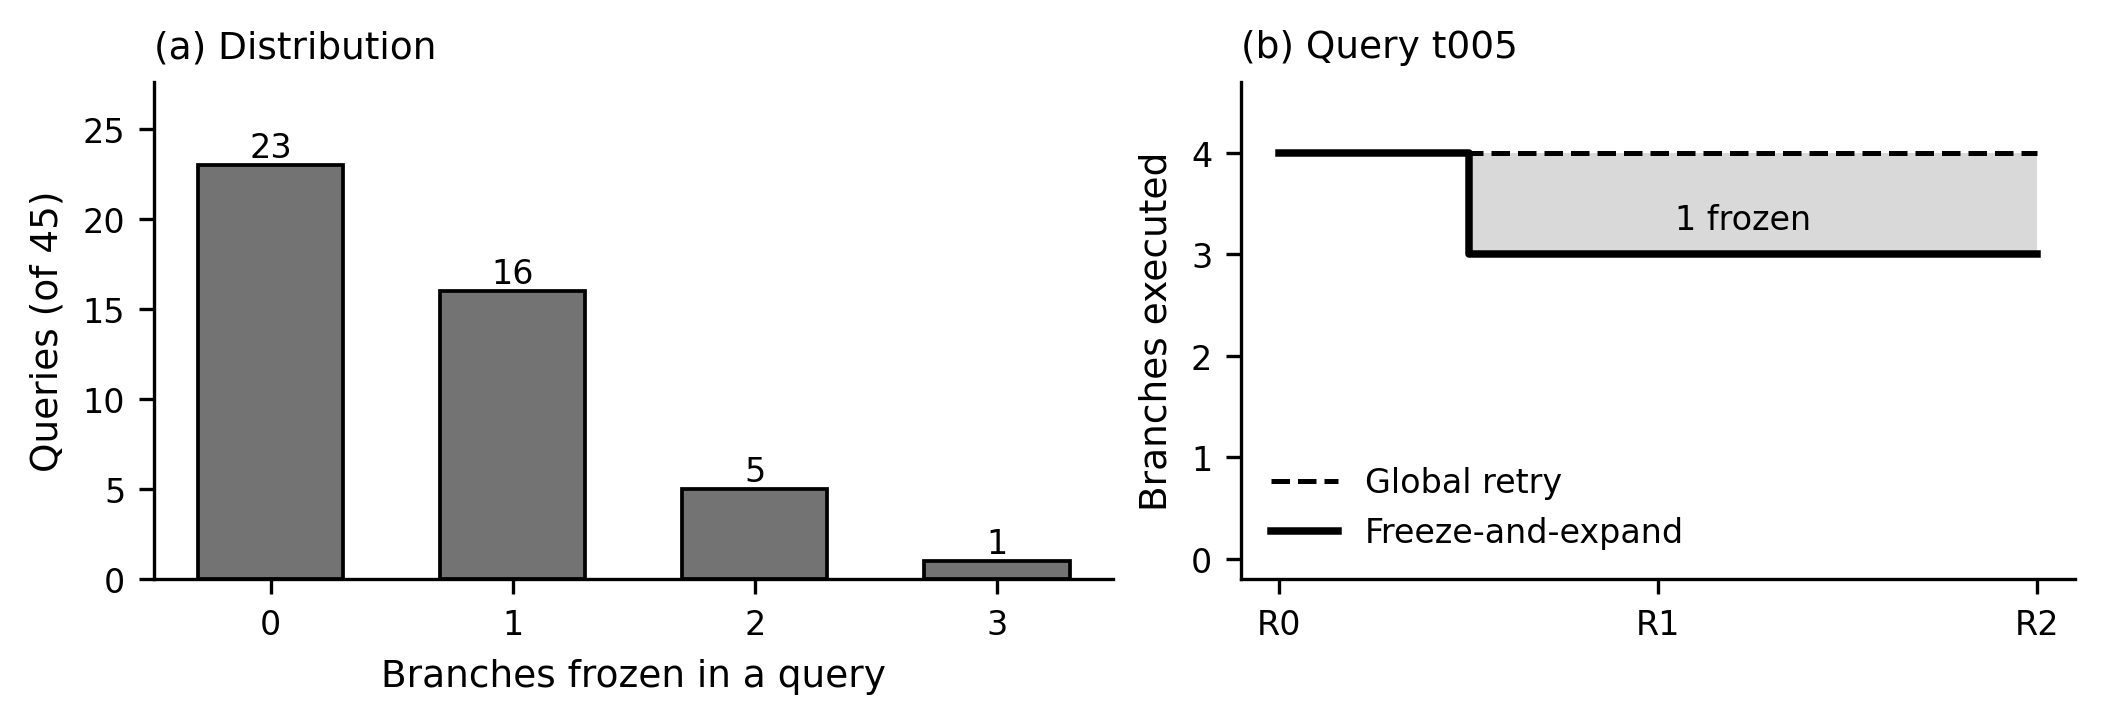
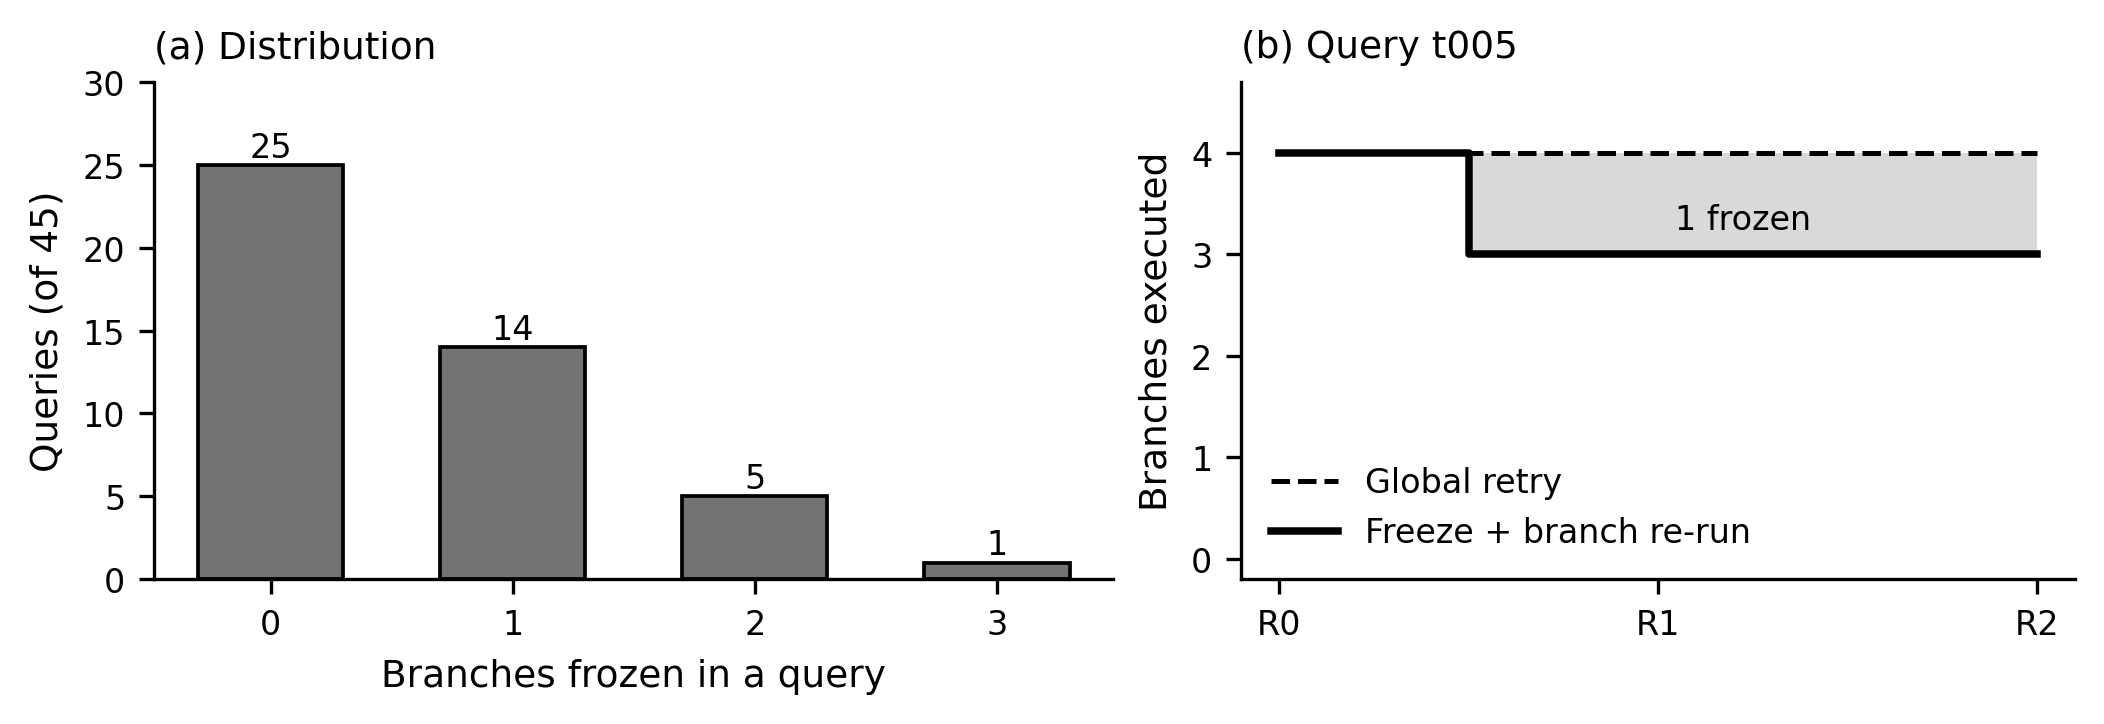
DEVIATIONS 37: pre-resubmission number trace; regenerate Fig. 3 from corrected operator

diff --git a/experiments/make_figures.py b/experiments/make_figures.py
@@ -105,7 +105,7 @@ def fig4() -> dict:
     (a) 가 있으면 (b) 가 대표성을 주장하지 않아도 되므로 체리피킹 시비가 원천 차단된다.
     최종 형태는 공저자가 정한다.
     """
-    live = rd("results/m1c/m2min_live.csv")
+    live = rd("results/m1c_singledoc/m2min_live.csv")  # corrected single-document operator (results/m1c is the chunk-split version)
     assert live, "m2min_live.csv 가 없다"
     fr = [int(r["B_frozen"]) for r in live]
     med_all = st.median(fr)
@@ -139,7 +139,7 @@ def fig4() -> dict:
     axb.step(rounds, a_exec, where="mid", color="black", linewidth=1.2,
              linestyle="--", label="Global retry")
     axb.step(rounds, b_exec, where="mid", color="black", linewidth=1.8,
-             label="Freeze-and-expand")
+             label="Freeze + branch re-run")
     axb.fill_between(rounds, b_exec, a_exec, step="mid", facecolor="0.85",
                      edgecolor="none")
     axb.set_xticks(rounds, ["R0", "R1", "R2"])
